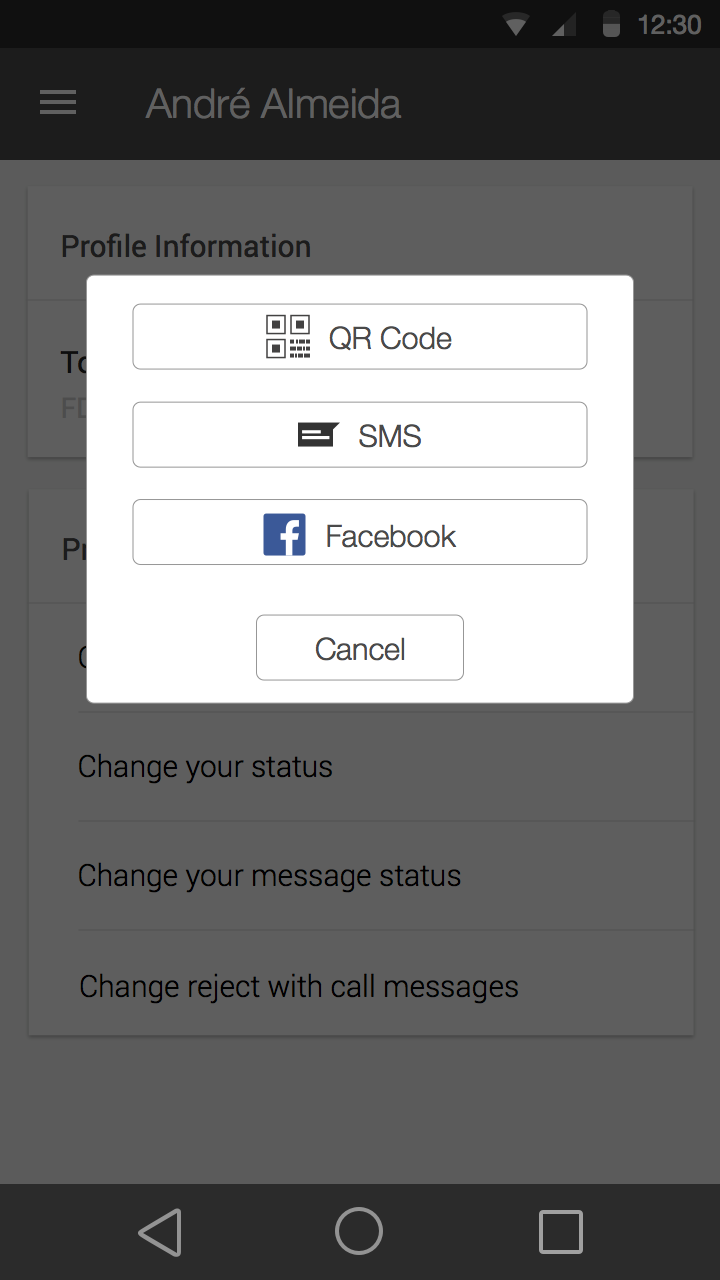
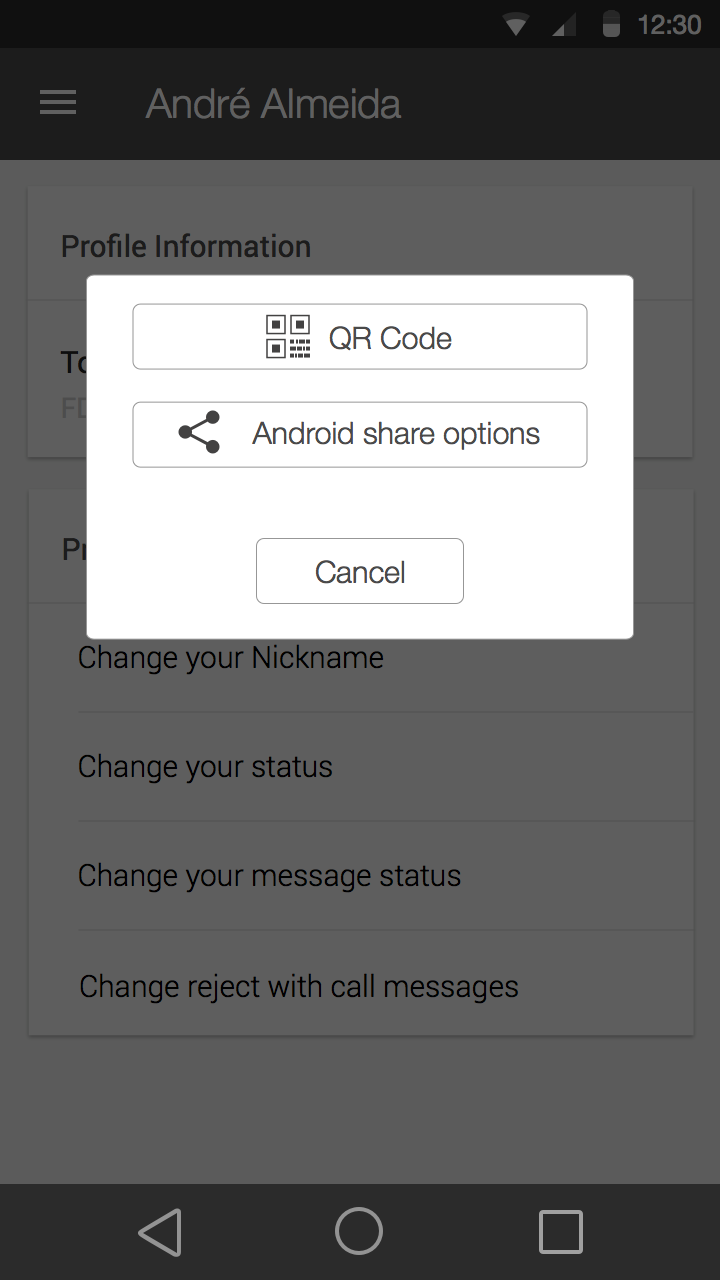
Search and Share UI Fixes

Changed region(s): [[0.1222, 0.4062, 0.8861, 0.5625], [0.3361, 0.3125, 0.7639, 0.4375], [0.2444, 0.3125, 0.3056, 0.375]]

diff --git a/doc/storyboard/indexSearchKeyboard.html b/doc/storyboard/indexSearchKeyboard.html
@@ -10,11 +10,9 @@
 			<center>
 				<div>
 					<div id="center">
-						<img id="centerIMG"src="img/Inbox GroupID Code.png">
-						<a href="index.html"><div class="highlight" style="position:absolute;top: 326px;left: 216px;width: 100px;height: 40px;"></div></a>
-						<a href="inboxQrcode.html"><div class="highlight" style="position:absolute;top: 273px;left: 75px;width: 250px;height: 40px;"></div></a>
-						<a href="GroupMessage.html"><div class="highlight" style="position:absolute;top: 326px;left: 82px;width: 100px;height: 40px;"></div></a>
-
+						<img id="centerIMG"src="img/InboxSearchKeyboard.png">
+						<a href="index.html"><div class="highlight" style="position:absolute;top: 40px;left: 17px;width: 30px;height: 30px;"></div></a>
+						<a href="indexSearchWriting.html" style="color:blue;"><div style="position:absolute;top: 280px;left: -138px;height: 80px;">Write Something!</div></a>
 					</div>
 					<div id="text"><h1>Tox Android Application Mockup</h1></div>
 					<input id="checkbox" type="checkbox"  checked>Highlight Touch Spots<br>

diff --git a/doc/storyboard/ProfileScrollPromptShareAndroid.html b/doc/storyboard/ProfileScrollPromptShareAndroid.html
@@ -10,16 +10,14 @@
 			<center>
 				<div>
 					<div id="center">
-						<img id="centerIMG"src="img/Inbox GroupID Code.png">
-						<a href="index.html"><div class="highlight" style="position:absolute;top: 326px;left: 216px;width: 100px;height: 40px;"></div></a>
-						<a href="inboxQrcode.html"><div class="highlight" style="position:absolute;top: 273px;left: 75px;width: 250px;height: 40px;"></div></a>
-						<a href="GroupMessage.html"><div class="highlight" style="position:absolute;top: 326px;left: 82px;width: 100px;height: 40px;"></div></a>
-
+						<img id="centerIMG"src="img/UserShareAndroid.png">
 					</div>
 					<div id="text"><h1>Tox Android Application Mockup</h1></div>
+					<a href="Profile.html" style="color:blue;">Scroll Up!</a>
 					<input id="checkbox" type="checkbox"  checked>Highlight Touch Spots<br>
 				</div>
 			</center>
+			
 		</div>
 	</body>
 	<script type="text/javascript">

diff --git a/doc/storyboard/ProfileScrollPromptShareQR.html b/doc/storyboard/ProfileScrollPromptShareQR.html
@@ -10,16 +10,14 @@
 			<center>
 				<div>
 					<div id="center">
-						<img id="centerIMG"src="img/Inbox GroupID Code.png">
-						<a href="index.html"><div class="highlight" style="position:absolute;top: 326px;left: 216px;width: 100px;height: 40px;"></div></a>
-						<a href="inboxQrcode.html"><div class="highlight" style="position:absolute;top: 273px;left: 75px;width: 250px;height: 40px;"></div></a>
-						<a href="GroupMessage.html"><div class="highlight" style="position:absolute;top: 326px;left: 82px;width: 100px;height: 40px;"></div></a>
-
+						<img id="centerIMG"src="img/UserQR.png">
 					</div>
 					<div id="text"><h1>Tox Android Application Mockup</h1></div>
+					<a href="Profile.html" style="color:blue;">Scroll Up!</a>
 					<input id="checkbox" type="checkbox"  checked>Highlight Touch Spots<br>
 				</div>
 			</center>
+			
 		</div>
 	</body>
 	<script type="text/javascript">

diff --git a/doc/storyboard/ProfileScrollPromptShare.html b/doc/storyboard/ProfileScrollPromptShare.html
@@ -11,6 +11,9 @@
 				<div>
 					<div id="center">
 						<img id="centerIMG"src="img/User_profile_scrollPromptShare.png">
+						<a href="ProfileScrollPromptShareAndroid.html"><div class="highlight" style="position:absolute;top: 220px;left: 74px;width: 250px;height: 40px;"></div></a>
+						<a href="ProfileScrollPromptShareQR.html"><div class="highlight" style="position:absolute;top: 165px;left: 74px;width: 250px;height: 40px;"></div></a>
+						<a href="ProfileScroll.html"><div class="highlight" style="position:absolute;top: 295px;left: 138px;width: 120px;height: 40px;"></div></a>
 					</div>
 					<div id="text"><h1>Tox Android Application Mockup</h1></div>
 					<a href="Profile.html" style="color:blue;">Scroll Up!</a>

diff --git a/doc/storyboard/indexSearch.html b/doc/storyboard/indexSearch.html
@@ -12,7 +12,7 @@
 					<div id="center">
 						<img id="centerIMG"src="img/Inbox Search.png">
 						<a href="index.html"><div class="highlight" style="position:absolute;top: 40px;left: 17px;width: 30px;height: 30px;"></div></a>
-						<a href="indexSearchWriting.html" style="color:blue;"><div style="position:absolute;top: 280px;left: -138px;height: 80px;">Write Something!</div></a>
+						<a href="indexSearchKeyboard.html"><div class="highlight" style="position:absolute;top: 40px;left: 65px;width: 300px;height: 30px;"></div></a>
 					</div>
 					<div id="text"><h1>Tox Android Application Mockup</h1></div>
 					<input id="checkbox" type="checkbox"  checked>Highlight Touch Spots<br>
